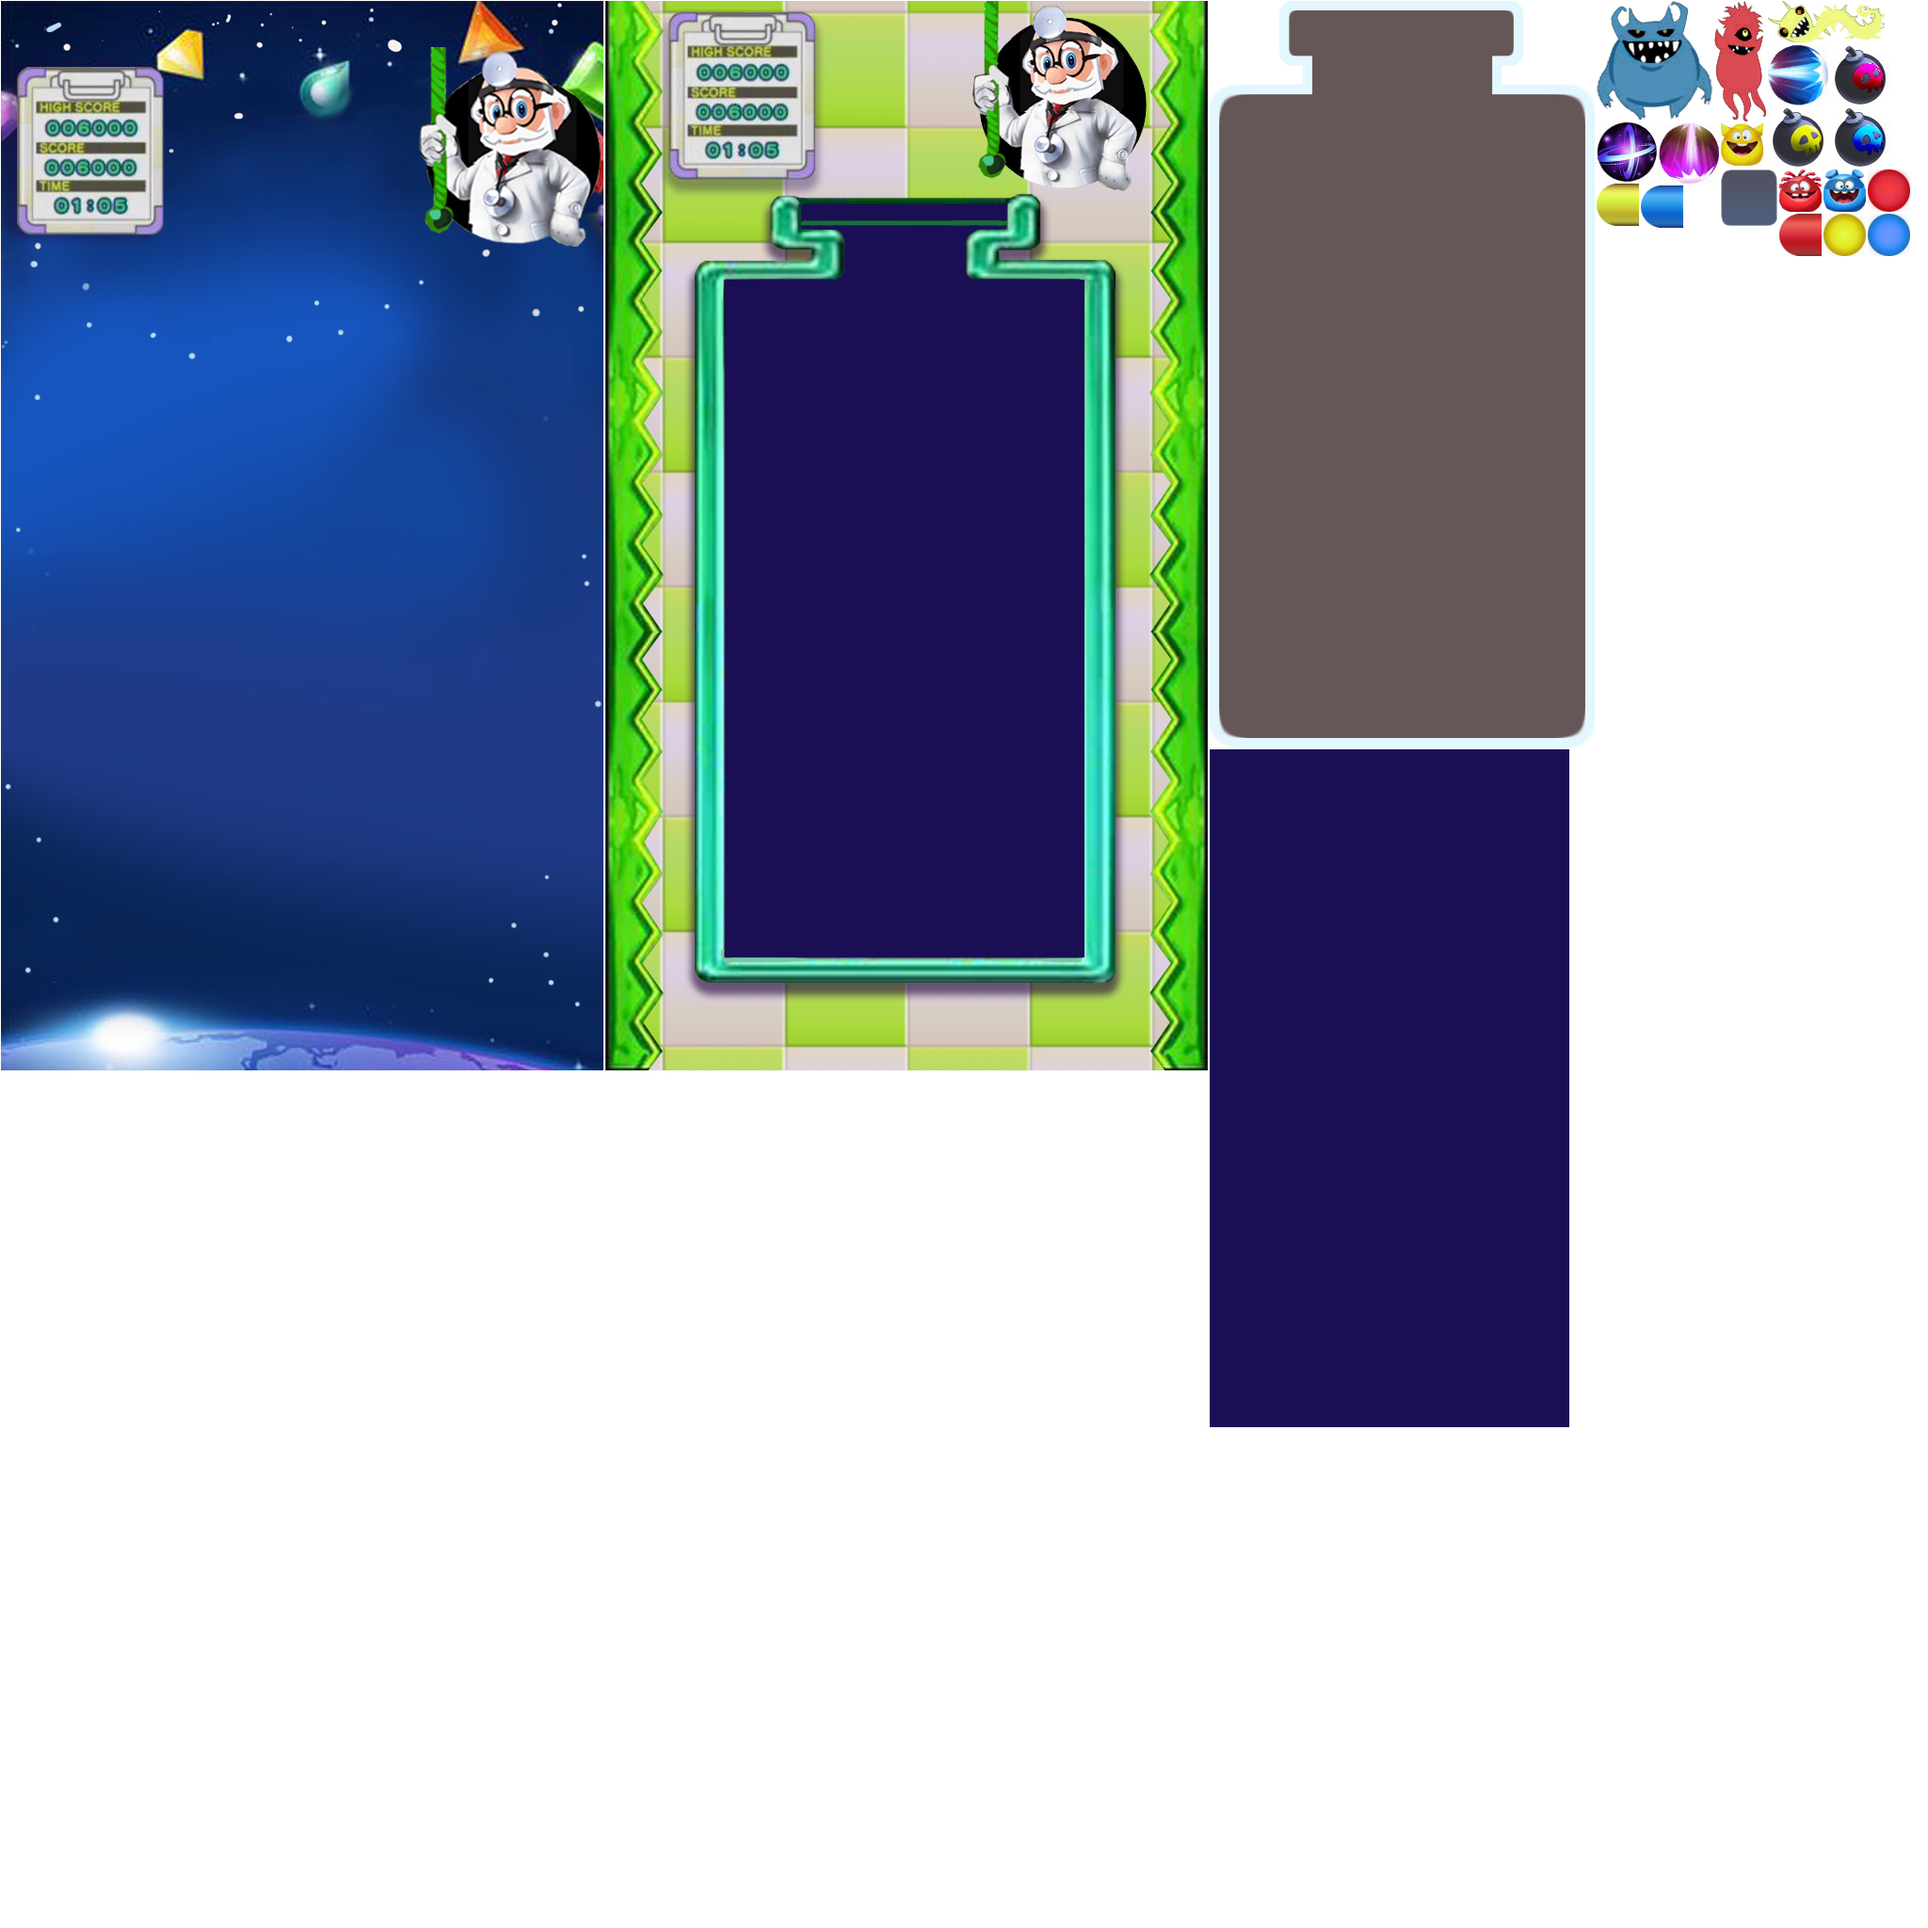
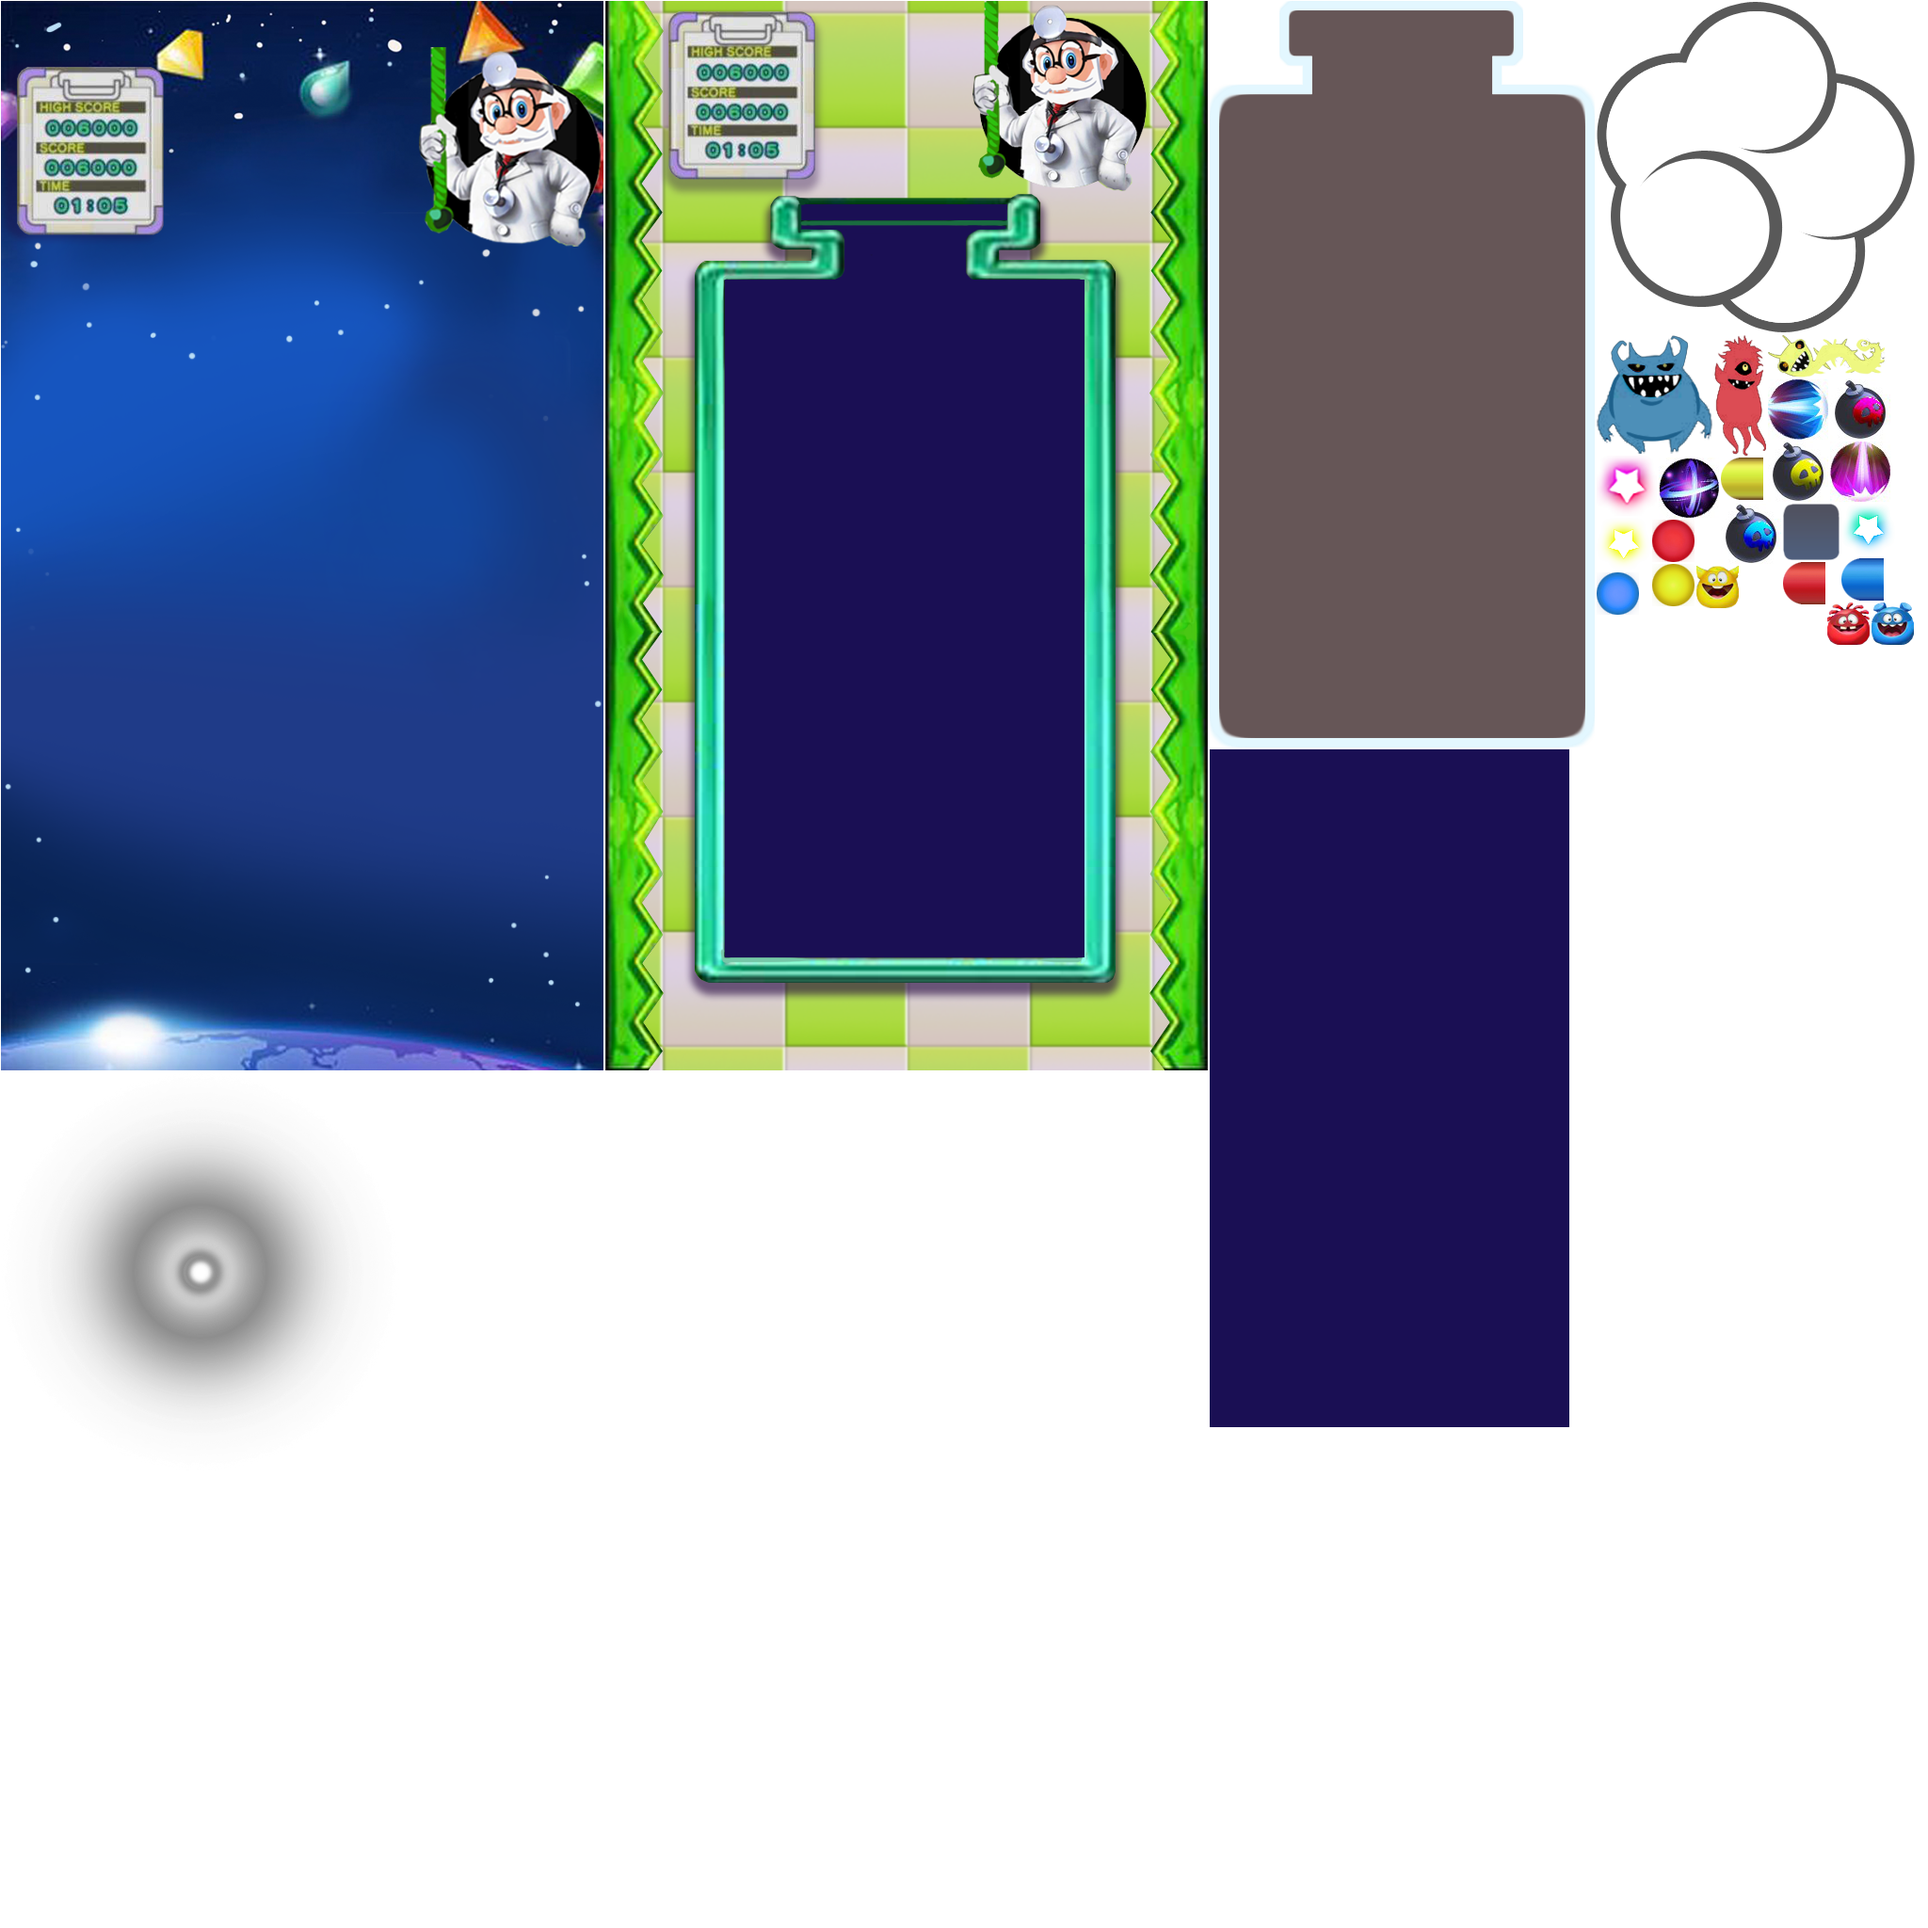
粒子效果合入

Changed region(s): [[0.8125, 0.0, 1.0, 0.3438], [0.0312, 0.5938, 0.1875, 0.75]]

diff --git a/PDProject/src/GameView/LobbyView.ts b/PDProject/src/GameView/LobbyView.ts
@@ -71,12 +71,10 @@ class LobbyView extends GameView
         // var texture = RES.getRes("Virus_Red");
         // var config = RES.getRes("newParticle_json");
         // this.particleSys = this.mResModule.CreateParticleByKey("newParticle");
-        this.particleSys = this.mResModule.CreateParticle("Virus_Red", "newParticle");
+        this.particleSys = this.mResModule.CreateParticle("Particle_Boss_Skill_Fly", "Particle_Boss_Skill_Fly");
         this.addChild(this.particleSys);
         this.particleSys.x = 100;
         this.particleSys.y = this.mStageHeight / 2;
-        this.particleSys.emitterX = 0;
-        this.particleSys.emitterY = 0;
         // this.particleSys.rotation = 180
         this.particleSys.start();
     }

diff --git a/PDProject/src/GameModule/ResModule/ResModule.ts b/PDProject/src/GameModule/ResModule/ResModule.ts
@@ -68,6 +68,11 @@ class ResModule extends ModuleBase implements IResModule
 		var texture = RES.getRes(textureName);
         var config = RES.getRes(jsonName + "_json");
         var particleSys = new particle.GravityParticleSystem(texture, config);
+		if (particleSys != null)
+		{
+			particleSys.emitterX = 0;
+			particleSys.emitterY = 0;
+		}
 		return particleSys;
 	}
 
